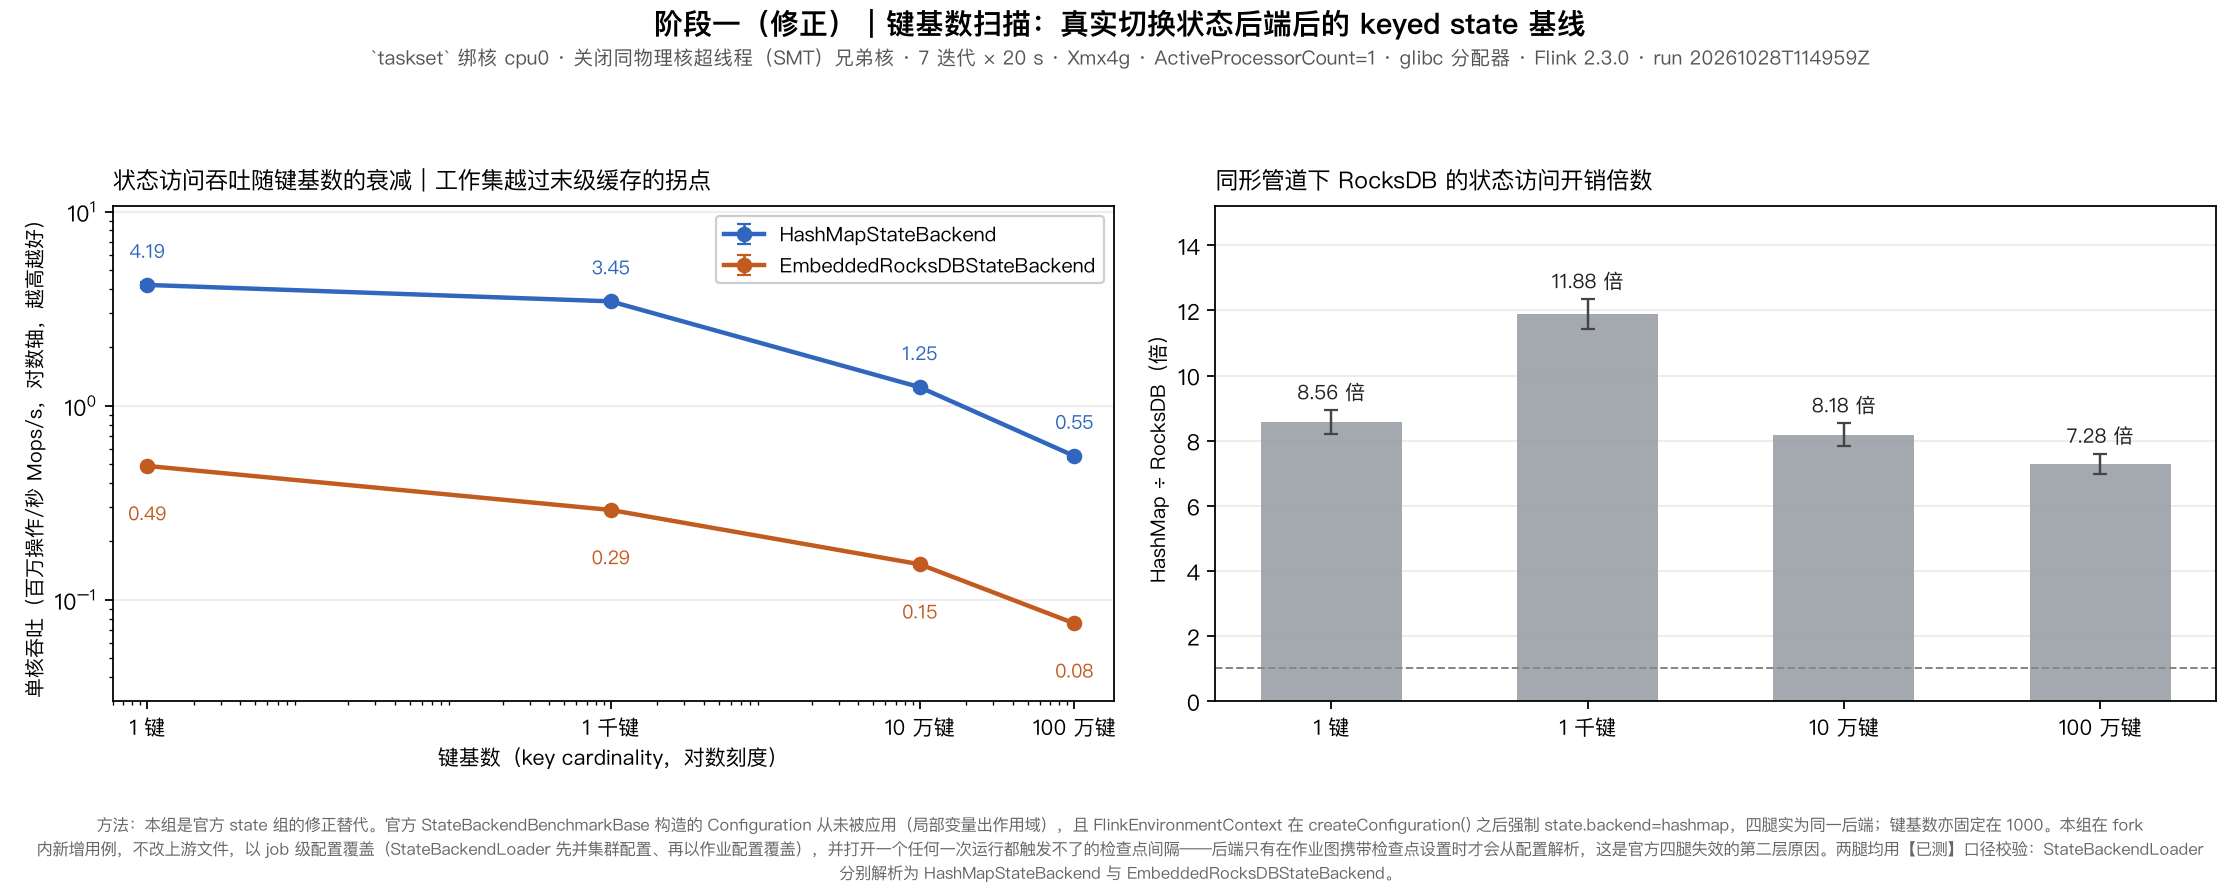
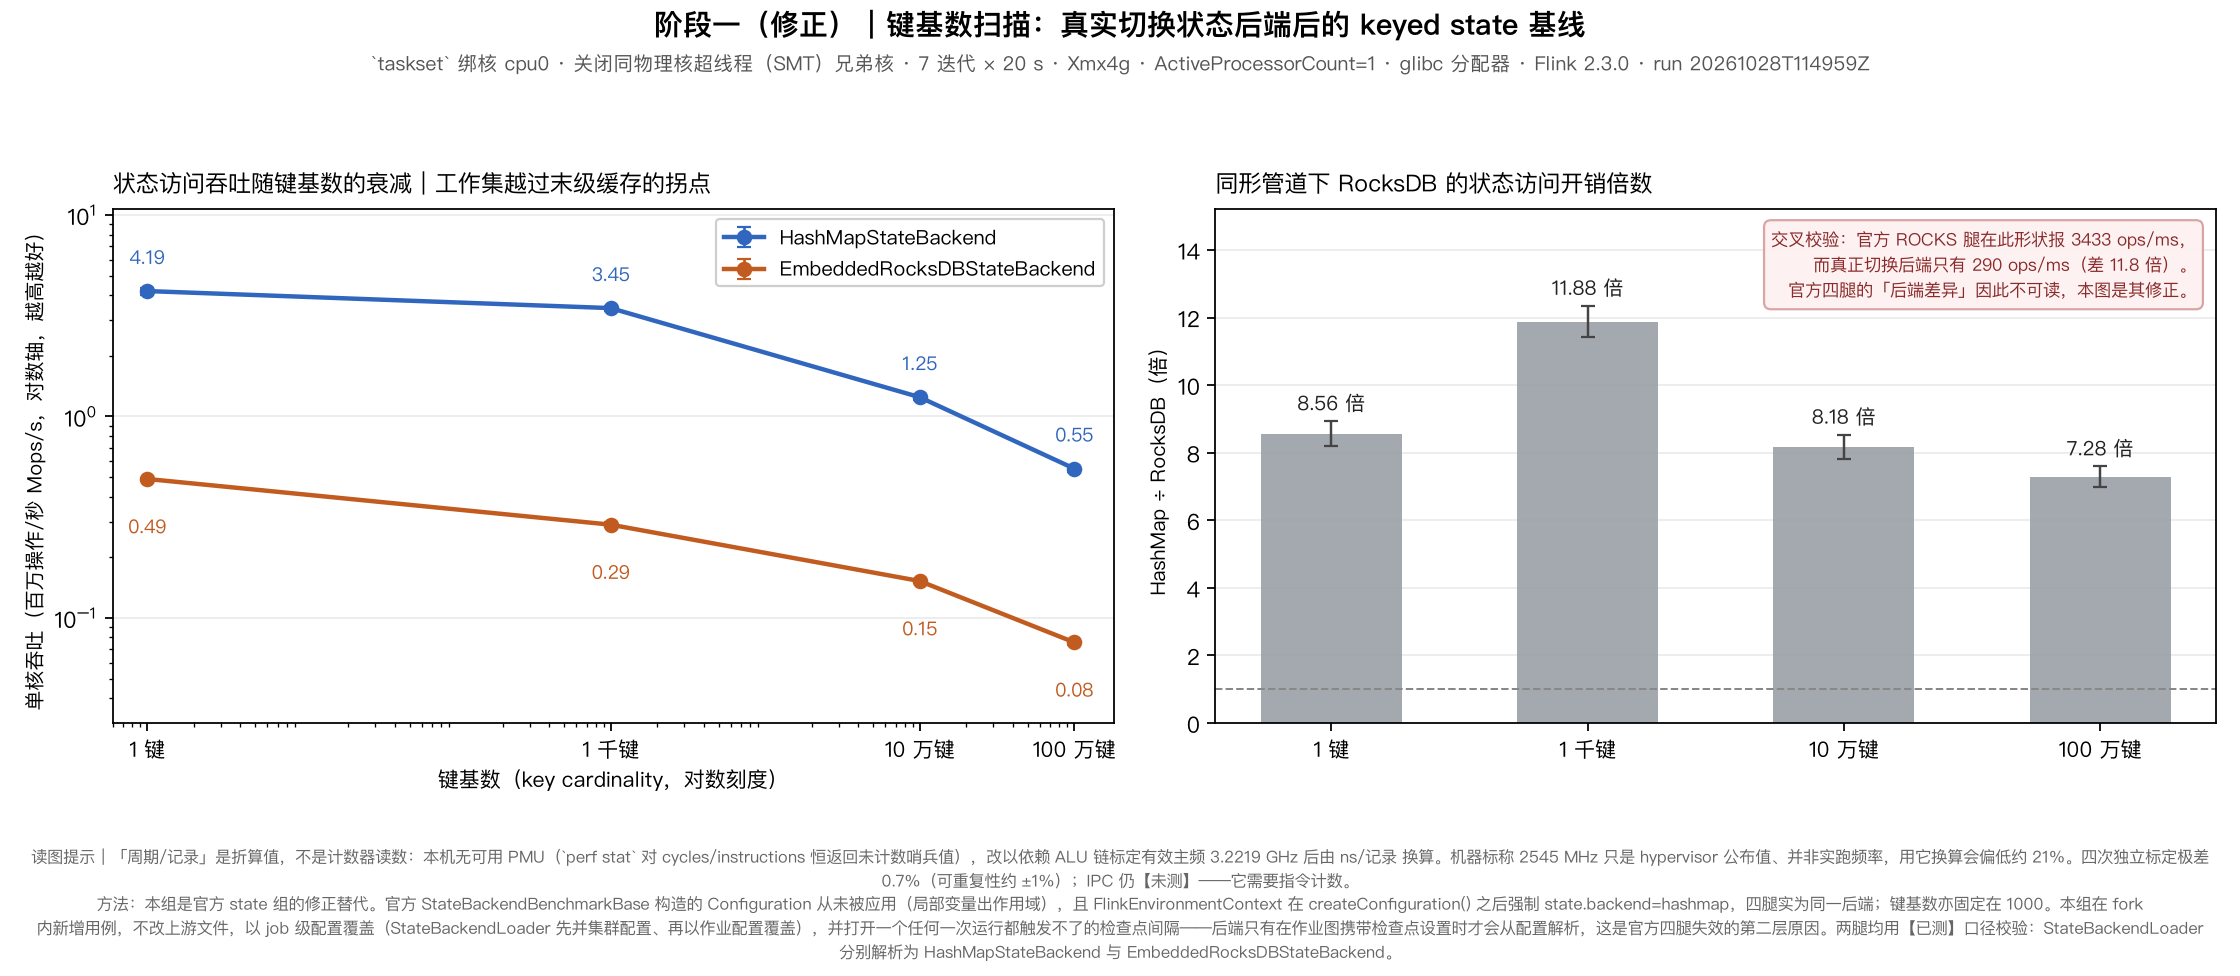
[flinkbench] M166c: compromise points annotated on the figures themselves
The caveats were only in the markdown prose, where a reader looking at the
figure alone would miss them. They are now drawn on the charts, in plain
language, and every number in them is filled from the store rather than written
into the string.

- stage-1 panel 1: cross-run reproducibility of globalWindow, computed from the
  two most recent JMH runs (5128 / 5478 ops/ms, 6.8% apart, outside the +/-5%
  tie band), with the consequence stated: differences under ~7% on this case are
  not readable.
- stage-1 panel 2: says the four legs all run HashMapStateBackend, names both
  root causes, and quotes the real RocksDB figure next to the official one. The
  reserved band is now sized from the note itself; a fixed reserve let a longer
  note run past the axes edge.
- sweep panel B: cross-check callout (official 3433 vs 290 ops/ms, 11.8x).
- sweep footer: cycles/record is folded, not counted; no PMU, calibrated
  3.2219 GHz, and the machine's advertised 2545 MHz would understate by 21%.
  Kept in the footer band after an in-panel box proved to cover two data labels.
- stage-1 table: the three legs whose labels assert a backend or storage that did
  not take effect are now marked as declared values; the MEMORY leg needs no
  caveat because its label is true. Sweep rows dropped from this table since they
  have their own section with the backend actually switched.

Two regressions found and fixed while doing this: the default note had lost its
[…]

diff --git a/flinkbench/chart.py b/flinkbench/chart.py
@@ -45,6 +45,26 @@ def _latest(con, case, metric):
     return row
 
 
+def _fill(text, values):
+    """Substitute {token} placeholders without str.format's brace fragility.
+
+    The on-chart notes quote measured numbers, so they are filled from the
+    store rather than written into the string: a hard-coded figure in a panel
+    heading silently went stale the last time the baseline was re-run.
+    """
+    for key, value in values.items():
+        text = text.replace("{" + key + "}", value)
+    return text
+
+
+def _jmh_history(con, case, limit=2):
+    """The last `limit` scores for a stage-1 case, newest first."""
+    return [row[0] for row in con.execute(
+        """SELECT m.value FROM metrics m JOIN runs r ON r.id = m.run_id
+           WHERE m.case_name = ? AND m.metric = 'score' AND r.suite = 'jmh'
+           ORDER BY r.ts DESC, r.id DESC LIMIT ?""", (case, limit))]
+
+
 def _has(con, case):
     return con.execute("SELECT 1 FROM metrics WHERE case_name = ? LIMIT 1", (case,)).fetchone() is not None
 
@@ -710,11 +730,17 @@ STAGE1_GROUPS = [
     ("状态后端与检查点存储｜四腿实为同一后端，不构成对比（见修正组）",
      ["stateBackends.MEMORY", "stateBackends.FS", "stateBackends.ROCKS",
       "stateBackends.ROCKS_INC"], GRAY,
-     "上游 StateBackendBenchmarkBase 构造的 Configuration 从未被应用，且集群配置被强制\n"
-     "state.backend=hashmap；后端解析又只在作业图携带检查点设置时才发生。四腿因此从头到尾\n"
-     "都是同一后端，量的是 source→map→keyBy→window 管道。本 fork 已在修正组完成真正的\n"
-     "后端切换与键基数放大，见「键基数扫描」图。"),
+     "读图提示：这四条全都跑在 HashMapStateBackend 上，不是四种后端。\n"
+     "上游构造的 Configuration 从未被应用，后端解析又只在作业图\n"
+     "携带检查点设置时才发生，所以 state.backend=rocksdb 是死配置。\n"
+     "官方 ROCKS 腿读数 {official_rocks} ops/ms，"
+     + "{rocks_note}\n"
+     "真正的后端对比请看「键基数扫描」图。"),
 ]
+
+DEFAULT_STAGE1_NOTE = (
+    "Flinkable 同形腿：待补（提案 §2 P-A：`fab-windows` 窗口分配器、类型化记录通路）\n"
+    "{window_repro}")
 
 # What the proposal asks for in section 3.3, and whether this box can deliver it.
 # No ✓/✗ here on purpose: PingFang SC has no U+2713/U+2717 and they render as tofu.
@@ -761,7 +787,32 @@ def render_stage1(con, out_path, run_note=""):
         if score:
             window_values.append(score[0])
     spread = ("%.1f" % (max(window_values) / min(window_values))) if window_values else "—"
-    drawn = [(heading.format(window_spread=spread), wanted, color, warning)
+
+    # Human caveats, computed from the store so they cannot drift from the bars.
+    fastest = STAGE1_GROUPS[0][1][0]
+    history = _jmh_history(con, fastest, 2)
+    if len(history) == 2 and min(history) > 0:
+        repro = ("跨 run 复现：本用例两次基线 %d / %d ops/ms，差 %.1f%%，已超出 ±5%% 平手带"
+                 % (history[0], history[1], abs(history[0] - history[1]) * 100.0 / min(history))
+                 + "\n→ 该用例上小于 ~7% 的跨引擎差异不宜判读，需再加密迭代或换独占机器。")
+    else:
+        repro = "跨 run 复现：本用例尚无第二次基线，暂不能评估其 run 间方差。"
+    official_rocks = _latest(con, "stateBackends.ROCKS", "score")
+    real_rocks = _latest(con, "keyedState.1000.rocksdb", "score")
+    if official_rocks and real_rocks and real_rocks[0] > 0:
+        rocks_note = ("真跑同形状的 RocksDB 腿只有 %d ops/ms（它的 1/%.1f）。"
+                      % (real_rocks[0], official_rocks[0] / real_rocks[0]))
+    else:
+        rocks_note = "（修正组尚未入库，真实 RocksDB 读数待补。）"
+    # `note_values` rather than `values`: the per-panel loop below already uses
+    # that name for the bar heights.
+    note_values = {
+        "window_spread": spread,
+        "window_repro": repro,
+        "official_rocks": ("%d" % official_rocks[0]) if official_rocks else "—",
+        "rocks_note": rocks_note,
+    }
+    drawn = [(_fill(heading, note_values), wanted, color, warning)
              for heading, wanted, color, warning in drawn]
 
     fig, axes = plt.subplots(1, len(drawn), figsize=(7.0 * len(drawn), 5.2))
@@ -793,12 +844,15 @@ def render_stage1(con, out_path, run_note=""):
         # The note lives in a reserved empty band under the last bar; drawing
         # it at the bottom of the axes overlapped the last case's value label.
         if warning:
-            note, note_color, face, edge, reserve = (
-                warning, "#8a2a2a", "#fdf1f1", "#d9a2a2", 1.95)
+            note, note_color, face, edge = (
+                warning, "#8a2a2a", "#fdf1f1", "#d9a2a2")
         else:
-            note, note_color, face, edge, reserve = (
-                "Flinkable 同形腿：待补（提案 §2 P-A：`fab-windows` 窗口分配器、类型化记录通路）",
-                "#3066be", "#eef3fb", "#b7c8e8", 1.25)
+            note, note_color, face, edge = (
+                DEFAULT_STAGE1_NOTE, "#3066be", "#eef3fb", "#b7c8e8")
+        note = _fill(note, note_values)
+        # The band has to fit the note it carries: a fixed reserve let a longer
+        # note run past the axes edge instead of into empty space.
+        reserve = 0.55 * note.count("\n") + 0.2
         ax.text(0.015, 0.015, note, transform=ax.transAxes, fontsize=8.0,
                 va="bottom", ha="left", color=note_color,
                 bbox=dict(boxstyle="round,pad=0.35", facecolor=face,
@@ -835,6 +889,33 @@ KEYED_STATE_FOOTER = (
     "EmbeddedRocksDBStateBackend。")
 
 
+def _keyed_calib_note(calib):
+    """Plain-language disclosure of how cycles/record was obtained."""
+    ghz = calib["ghz"]
+    text = ("读图提示｜「周期/记录」是折算值，不是计数器读数：本机无可用 PMU"
+            "（`perf stat` 对 cycles/instructions 恒返回未计数哨兵值），改以依赖 ALU 链标定有效主频"
+            " %.4f GHz 后由 ns/记录 换算。" % ghz)
+    nominal = calib.get("nominal_mhz")
+    if nominal:
+        low = int(round((1.0 - nominal / (ghz * 1000.0)) * 100))
+        text += ("机器标称 %.0f MHz 只是 hypervisor 公布值、并非实跑频率，用它换算会偏低约 %d%%。"
+                 % (nominal, low))
+    text += "四次独立标定极差 0.7%（可重复性约 ±1%）；IPC 仍【未测】——它需要指令计数。"
+    return text
+
+
+def _keyed_cross_note(con):
+    """The number that makes this group worth reading, next to its cause."""
+    official = _latest(con, "stateBackends.ROCKS", "score")
+    real = _latest(con, "keyedState.1000.rocksdb", "score")
+    if not (official and real and real[0] > 0):
+        return "交叉校验：待官方 state 组与本组同库后自动补齐。"
+    return ("交叉校验：官方 ROCKS 腿在此形状报 %d ops/ms，\n"
+            "而真正切换后端只有 %d ops/ms（差 %.1f 倍）。\n"
+            "官方四腿的「后端差异」因此不可读，本图是其修正。" % (
+                official[0], real[0], official[0] / real[0]))
+
+
 def keyed_state_cases(con):
     """Cases from the corrected keyed-state sweep, ordered by cardinality then backend."""
     from .terms import KEYED_STATE_CASES
@@ -860,8 +941,14 @@ def keyed_state_series(con):
     return out
 
 
-def render_keyed_state(con, out_path, run_note=""):
-    """Cardinality sweep: throughput lines plus the RocksDB/HashMap cost ratio."""
+def render_keyed_state(con, out_path, run_note="", calib=None):
+    """Cardinality sweep: throughput lines plus the RocksDB/HashMap cost ratio.
+
+    `calib` carries the clock-calibration disclosure; when present, panel A
+    states on the figure itself that the derived cycles/record is an estimate
+    rather than a counter reading, which is the most easily misread number in
+    this stage.
+    """
     from .terms import (KEYED_STATE_BACKENDS, KEYED_STATE_CARDINALITIES,
                         case_short_label)
 
@@ -869,7 +956,7 @@ def render_keyed_state(con, out_path, run_note=""):
     if not series:
         return None
 
-    fig, (ax, ax2) = plt.subplots(1, 2, figsize=(14.0, 5.6))
+    fig, (ax, ax2) = plt.subplots(1, 2, figsize=(14.0, 6.1))
 
     # Panel A: throughput against cardinality. The dynamic range spans orders of
     # magnitude once RocksDB is really used, so the axis is logarithmic and says so.
@@ -943,14 +1030,22 @@ def render_keyed_state(con, out_path, run_note=""):
                       pad=8)
         ax2.grid(axis="y", alpha=0.25)
         ax2.set_axisbelow(True)
+        # Upper-right stays free: the tallest bar is the second category.
+        ax2.text(0.98, 0.965, _keyed_cross_note(con), transform=ax2.transAxes,
+                 fontsize=7.8, va="top", ha="right", color="#8a2a2a",
+                 bbox=dict(boxstyle="round,pad=0.4", facecolor="#fdf1f1",
+                           edgecolor="#d9a2a2", alpha=0.97))
 
     fig.suptitle("阶段一（修正）｜键基数扫描：真实切换状态后端后的 keyed state 基线",
                  fontsize=13, fontweight="bold", y=0.99)
     if run_note:
         fig.text(0.5, 0.928, run_note, ha="center", fontsize=8.8, color="#555555")
-    fig.text(0.5, 0.012, KEYED_STATE_FOOTER, ha="center", va="bottom", fontsize=7.4,
+    footer = KEYED_STATE_FOOTER
+    if calib and calib.get("ghz"):
+        footer = _keyed_calib_note(calib) + "\n" + footer
+    fig.text(0.5, 0.012, footer, ha="center", va="bottom", fontsize=7.4,
              color="#666666", wrap=True)
-    fig.tight_layout(rect=(0, 0.115, 1, 0.90))
+    fig.tight_layout(rect=(0, 0.165, 1, 0.905))
     fig.savefig(out_path, dpi=160)
     plt.close(fig)
     return out_path

diff --git a/flinkbench/report.py b/flinkbench/report.py
@@ -21,6 +21,7 @@ Layout mirrors what a flink-benchmarks Codespeed page tells you per benchmark
 same-screen chart embedded. Terminology always goes through `terms.py`.
 """
 
+import json
 import os
 import re
 
@@ -31,6 +32,15 @@ _REPO_ROOT = os.path.dirname(os.path.dirname(os.path.abspath(__file__)))
 
 STAGE1_DISCIPLINE = ("`taskset` 绑核 cpu0 · 关闭同物理核超线程（SMT）兄弟核 · 7 迭代 × 20 s · "
                      "Xmx4g · ActiveProcessorCount=1 · glibc 分配器 · Flink 2.3.0")
+
+# What each official state leg declares versus what it was found to run. The
+# MEMORY leg's label happens to be true, so it needs no caveat; the other three
+# would assert a backend or a checkpoint storage the measurement disproves.
+DEAD_CONFIG_STATE_CAVEATS = {
+    "stateBackends.FS": "声明值；检查点存储未生效，实为 JobManager 存储",
+    "stateBackends.ROCKS": "声明值；实测为 HashMapStateBackend",
+    "stateBackends.ROCKS_INC": "声明值；实测为 HashMapStateBackend",
+}
 
 STAGE1_ORDER = [
     "globalWindow", "tumblingWindow", "slidingWindow", "sessionWindow",
@@ -146,7 +156,19 @@ def _clock_calibration(con):
     except OSError:
         return None, None
     match = re.search(r"\bghz=([\d.]+)", text)
-    return (float(match.group(1)), path) if match else (None, None)
+    if not match:
+        return None, None
+    calib = {"ghz": float(match.group(1))}
+    # The advertised frequency is kept beside the measured one so the figure can
+    # say how far off a nominal-clock conversion would have been; on this class
+    # of cloud host the two differ by about a fifth.
+    env_path = os.path.join(os.path.dirname(path), "env.json")
+    try:
+        with open(env_path) as handle:
+            calib["nominal_mhz"] = float(json.load(handle).get("cpu_mhz") or 0) or None
+    except (OSError, ValueError):
+        pass
+    return calib, path
 
 
 def _stage1_run_note(con):
@@ -353,15 +375,25 @@ def generate(con, out_dir, title, env_lines):
         lines += ["",
                   "| 用例（文档原名） | Flink 基线 | 误差 (99.9%) | Flinkable 同形腿 |",
                   "| --- | --- | --- | --- |"]
+        # The sweep cases get their own section with the backend actually
+        # switched; repeating them here as bare "Flink 基线" rows would drop the
+        # one thing that makes them readable.
+        from .terms import KEYED_STATE_CASES
+        sweep = set(KEYED_STATE_CASES)
         for case in [c for c in STAGE1_ORDER if c in stage1] + sorted(
-                stage1 - set(STAGE1_ORDER)):
+                stage1 - set(STAGE1_ORDER) - sweep):
             score = chart._latest(con, case, "score")
             if score is None:
                 continue
             err = chart._latest(con, case, "error")
             scale = chart.UNIT_TO_MOPS.get(score[1], 1.0)
+            label = case_label(case)
+            if case in DEAD_CONFIG_STATE_CAVEATS:
+                # Naming these rows after the backend they declare would assert
+                # something the measurement disproves.
+                label += "（%s）" % DEAD_CONFIG_STATE_CAVEATS[case]
             lines.append("| %s | %.2f | ±%.2f | 待补 |" % (
-                case_label(case), score[0] * scale,
+                label, score[0] * scale,
                 0.0 if err is None else err[0] * scale))
         lines += ["", "命名口径：窗口名取 `docs/dev/datastream/operators/windows.md` 的窗口分配器"
                       "（Tumbling / Sliding / Session / Global Windows）；状态后端与检查点存储取"
@@ -397,10 +429,11 @@ def generate(con, out_dir, title, env_lines):
                   "`RocksStateBackendBenchmark` 用 2\,000\,000 条，两组之间本身也不可比较。"]
         keyed = chart.keyed_state_series(con)
         if keyed:
+            calib, _calib_path = _clock_calibration(con)
             keyed_png = chart.render_keyed_state(
                 con, os.path.join(out_dir, "keyed_state.png"),
-                run_note=_stage1_run_note(con))
-            ghz, ghz_path = _clock_calibration(con)
+                run_note=_stage1_run_note(con), calib=calib)
+            ghz = calib["ghz"] if calib else None
             lines += ["", "## 阶段一（修正）：键基数扫描与状态后端真实切换", ""]
             if keyed_png:
                 lines += ["![键基数扫描（修正组）](%s)" % os.path.basename(keyed_png), ""]

diff --git a/report/2026-10-28-m166/report.md b/report/2026-10-28-m166/report.md
@@ -387,17 +387,9 @@
 | 滑动窗口（Sliding Windows） | 0.62 | ±0.01 | 待补 |
 | 会话窗口（Session Windows） | 0.69 | ±0.03 | 待补 |
 | HashMapStateBackend + JobManagerCheckpointStorage | 3.64 | ±0.09 | 待补 |
-| HashMapStateBackend + FileSystemCheckpointStorage | 3.40 | ±0.05 | 待补 |
-| EmbeddedRocksDBStateBackend + 全量检查点（full checkpoints） | 3.43 | ±0.08 | 待补 |
-| EmbeddedRocksDBStateBackend + 增量检查点（Incremental Checkpoints） | 3.50 | ±0.08 | 待补 |
-| HashMapStateBackend（键基数 1） | 4.19 | ±0.17 | 待补 |
-| EmbeddedRocksDBStateBackend（键基数 1） | 0.49 | ±0.01 | 待补 |
-| HashMapStateBackend（键基数 1 千） | 3.45 | ±0.10 | 待补 |
-| EmbeddedRocksDBStateBackend（键基数 1 千） | 0.29 | ±0.01 | 待补 |
-| HashMapStateBackend（键基数 10 万） | 1.25 | ±0.04 | 待补 |
-| EmbeddedRocksDBStateBackend（键基数 10 万） | 0.15 | ±0.00 | 待补 |
-| HashMapStateBackend（键基数 100 万） | 0.55 | ±0.02 | 待补 |
-| EmbeddedRocksDBStateBackend（键基数 100 万） | 0.08 | ±0.00 | 待补 |
+| HashMapStateBackend + FileSystemCheckpointStorage（声明值；检查点存储未生效，实为 JobManager 存储） | 3.40 | ±0.05 | 待补 |
+| EmbeddedRocksDBStateBackend + 全量检查点（full checkpoints）（声明值；实测为 HashMapStateBackend） | 3.43 | ±0.08 | 待补 |
+| EmbeddedRocksDBStateBackend + 增量检查点（Incremental Checkpoints）（声明值；实测为 HashMapStateBackend） | 3.50 | ±0.08 | 待补 |
 
 命名口径：窗口名取 `docs/dev/datastream/operators/windows.md` 的窗口分配器（Tumbling / Sliding / Session / Global Windows）；状态后端与检查点存储取 `docs/ops/state/state_backends.md`、`docs/ops/state/checkpoints.md` 的 `HashMapStateBackend` / `EmbeddedRocksDBStateBackend` / `JobManagerCheckpointStorage` / `FileSystemCheckpointStorage` 与 *Incremental Checkpoints*；单位按提案 §3.3 折算为 Mops/s（JMH 原生报 ops/ms，1 ops/ms = 1000 ops/s）。
 
